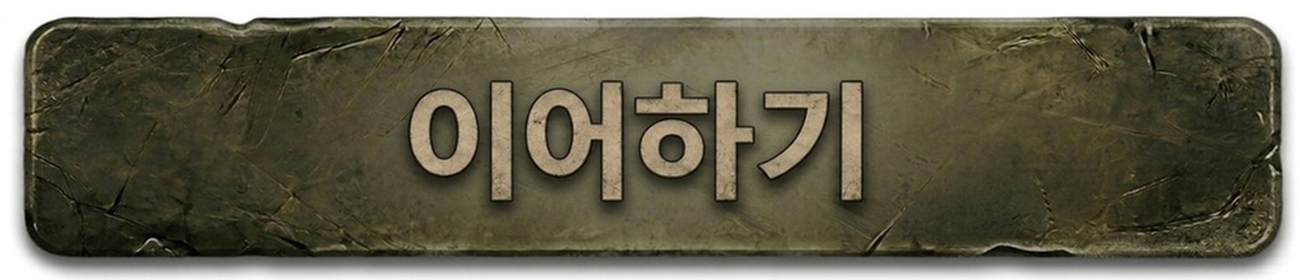
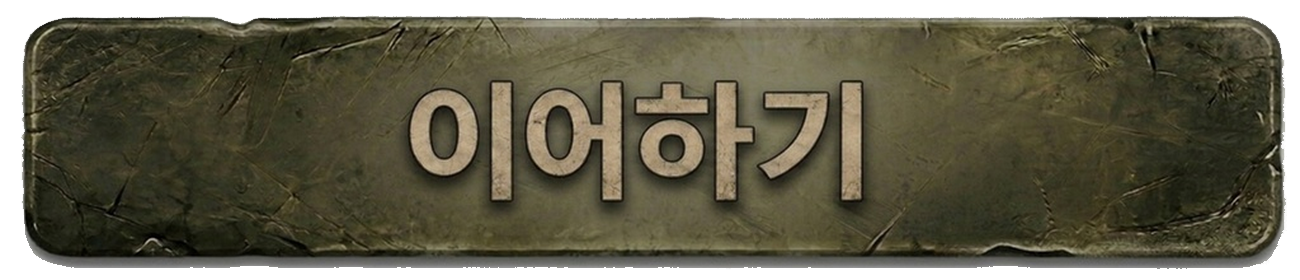
feat(ui): 메인 메뉴 버튼 폴리싱 — 투명화·사이즈·위치·호버 전환
- PNG 8종 배경 투명화: 채도 기반 5패스 알고리즘으로 흰 외곽선 제거
- 버튼 크기: 원본(1300×280)의 40% → 520×112px
- 버튼 위치: margin-top 320px → 530px
- 호버 깜빡임 수정: ::after 가상 요소에 active 이미지 preload,
  opacity 0→1 transition(0.18s)으로 부드러운 전환

diff --git a/css/screens-menu.css b/css/screens-menu.css
@@ -6,21 +6,23 @@
   position: relative;
 }
 
-/* 박힌 부제(상단 ~30%)를 가리지 않도록 4-버튼 묶음을 화면 중하단(약 60% 라인)에 배치 */
 .main-menu-stack {
   display: flex;
   flex-direction: column;
   align-items: center;
   gap: 3px;
-  margin-top: 320px;
+  margin-top: 530px;
   z-index: 1;
 }
 
-/* === 메인 메뉴 이미지 버튼 (텍스트 박힌 PNG, 다크↔노랑 상태 전환) === */
-/* background-size: 100% 100% — 캔버스 안 그래픽 영역 차이로 인한 시각 사이즈 불일치 강제 정렬 */
+/* === 메인 메뉴 이미지 버튼 ===
+   idle 이미지는 background-image, active 이미지는 ::after 가상 요소에 미리 로드.
+   hover 시 ::after opacity 0→1 전환으로 깜빡임 없이 부드럽게 교체된다.
+   background-size: 100% 100% — 그래픽 캔버스 여백 차이 보정 */
 .menu-img-btn {
-  width: 360px;
-  height: 152px;
+  position: relative;
+  width: 520px;
+  height: 112px;
   padding: 0;
   border: none;
   background-color: transparent;
@@ -30,6 +32,24 @@
   cursor: pointer;
   filter: drop-shadow(0 6px 12px rgba(0, 0, 0, 0.6));
   transition: transform 0.08s ease, filter 0.15s ease;
+  overflow: hidden;
+}
+
+/* active 이미지를 위에 겹쳐 preload — 평상시 opacity: 0 */
+.menu-img-btn::after {
+  content: '';
+  position: absolute;
+  inset: 0;
+  background-position: center;
+  background-repeat: no-repeat;
+  background-size: 100% 100%;
+  opacity: 0;
+  transition: opacity 0.18s ease;
+}
+
+.menu-img-btn:hover:not(:disabled)::after,
+.menu-img-btn:focus-visible:not(:disabled)::after {
+  opacity: 1;
 }
 
 .menu-img-btn:hover:not(:disabled),
@@ -48,28 +68,17 @@
   filter: grayscale(0.5) brightness(0.55) drop-shadow(0 4px 8px rgba(0, 0, 0, 0.5));
 }
 
-/* 버튼별 다크(평상시) / 노랑(호버·포커스) 이미지 매핑 */
-.menu-img-btn--new-game  { background-image: url('../assets/images/menu/btn-new-game-idle.png'); }
-.menu-img-btn--continue  { background-image: url('../assets/images/menu/btn-continue-idle.png'); }
-.menu-img-btn--gallery   { background-image: url('../assets/images/menu/btn-gallery-idle.png'); }
-.menu-img-btn--settings  { background-image: url('../assets/images/menu/btn-settings-idle.png'); }
+/* idle 이미지 (background-image) */
+.menu-img-btn--new-game { background-image: url('../assets/images/menu/btn-new-game-idle.png'); }
+.menu-img-btn--continue { background-image: url('../assets/images/menu/btn-continue-idle.png'); }
+.menu-img-btn--gallery  { background-image: url('../assets/images/menu/btn-gallery-idle.png'); }
+.menu-img-btn--settings { background-image: url('../assets/images/menu/btn-settings-idle.png'); }
 
-.menu-img-btn--new-game:hover:not(:disabled),
-.menu-img-btn--new-game:focus-visible:not(:disabled) {
-  background-image: url('../assets/images/menu/btn-new-game-active.png');
-}
-.menu-img-btn--continue:hover:not(:disabled),
-.menu-img-btn--continue:focus-visible:not(:disabled) {
-  background-image: url('../assets/images/menu/btn-continue-active.png');
-}
-.menu-img-btn--gallery:hover:not(:disabled),
-.menu-img-btn--gallery:focus-visible:not(:disabled) {
-  background-image: url('../assets/images/menu/btn-gallery-active.png');
-}
-.menu-img-btn--settings:hover:not(:disabled),
-.menu-img-btn--settings:focus-visible:not(:disabled) {
-  background-image: url('../assets/images/menu/btn-settings-active.png');
-}
+/* active 이미지 (::after background-image — 항상 로드됨) */
+.menu-img-btn--new-game::after { background-image: url('../assets/images/menu/btn-new-game-active.png'); }
+.menu-img-btn--continue::after { background-image: url('../assets/images/menu/btn-continue-active.png'); }
+.menu-img-btn--gallery::after  { background-image: url('../assets/images/menu/btn-gallery-active.png'); }
+.menu-img-btn--settings::after { background-image: url('../assets/images/menu/btn-settings-active.png'); }
 
 /* 스크린리더용으로만 노출, 시각적으로는 숨김 (이미지에 텍스트가 박혀있음) */
 .visually-hidden {
